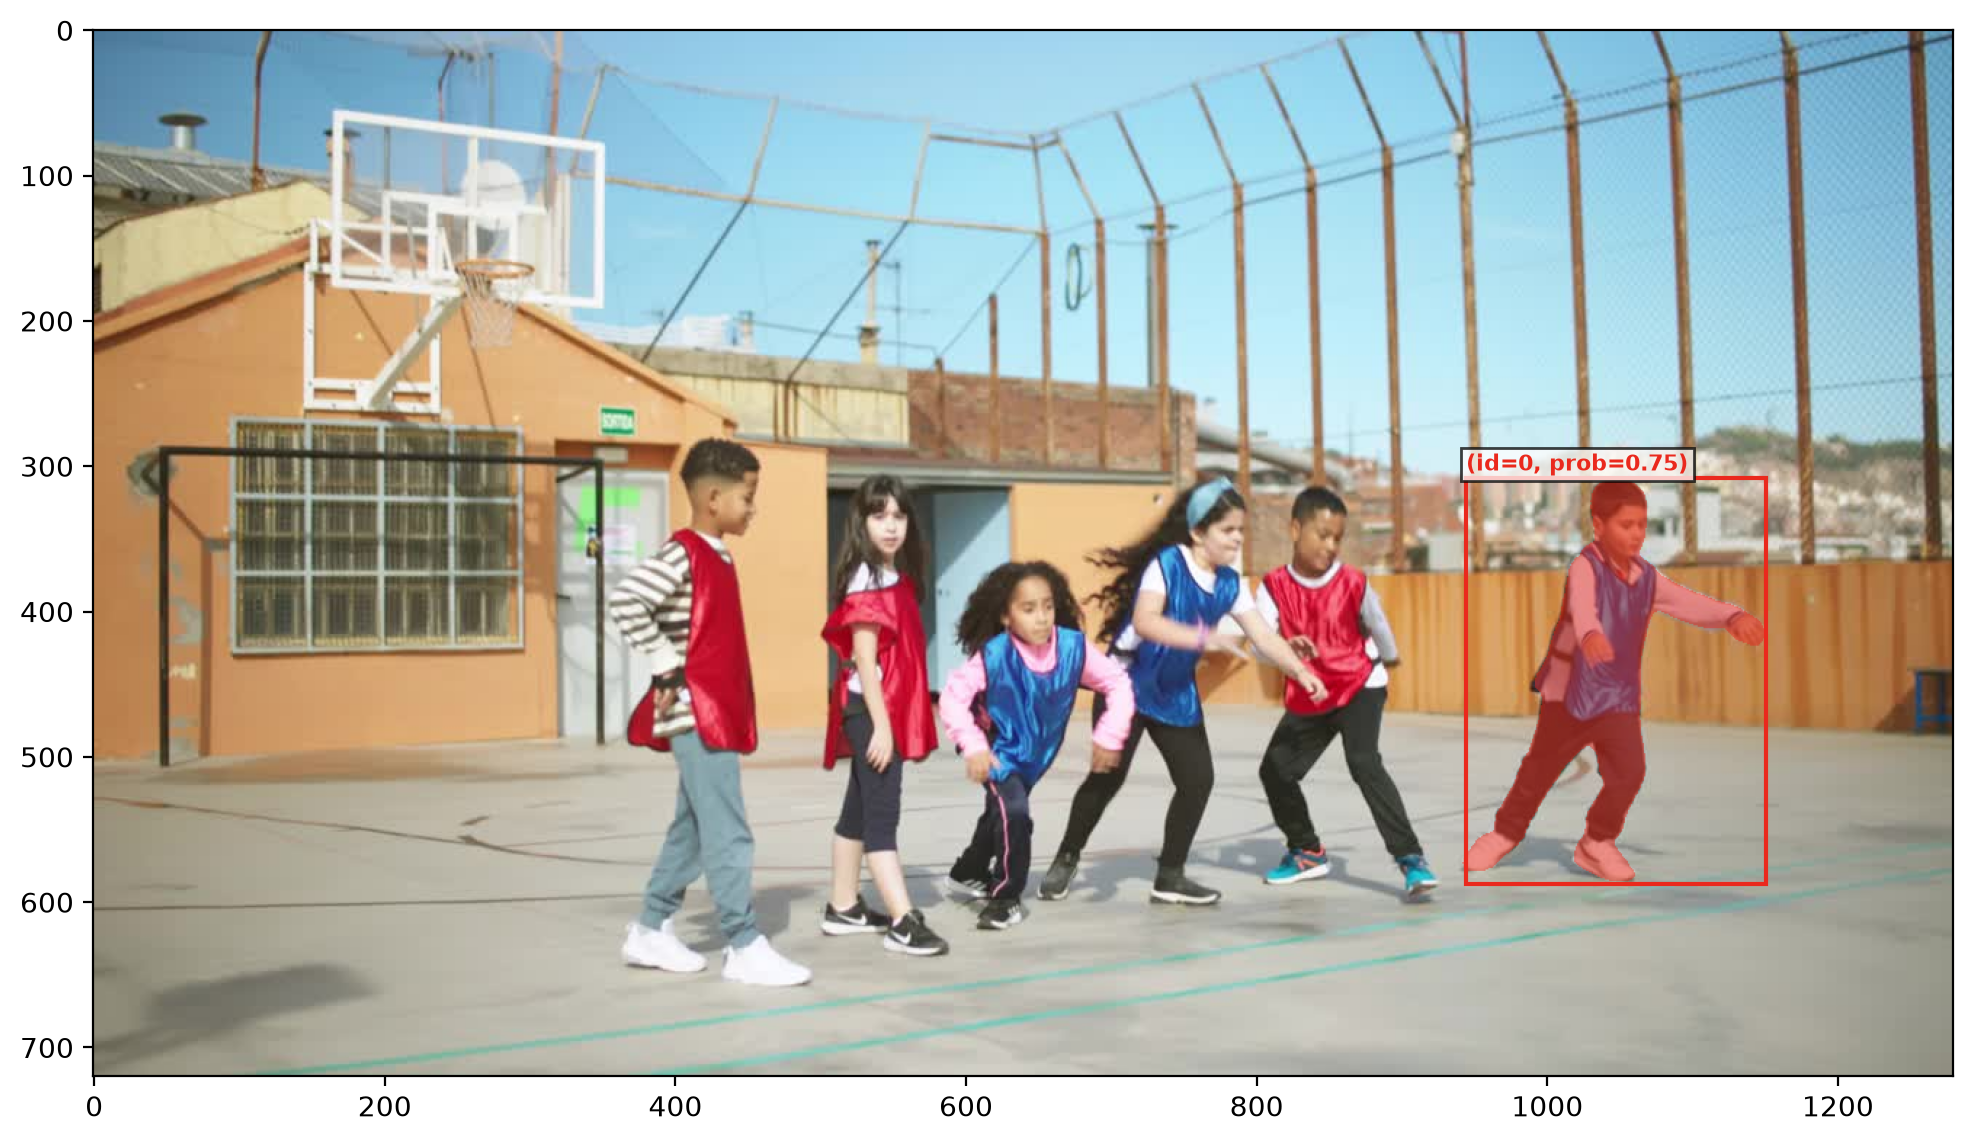
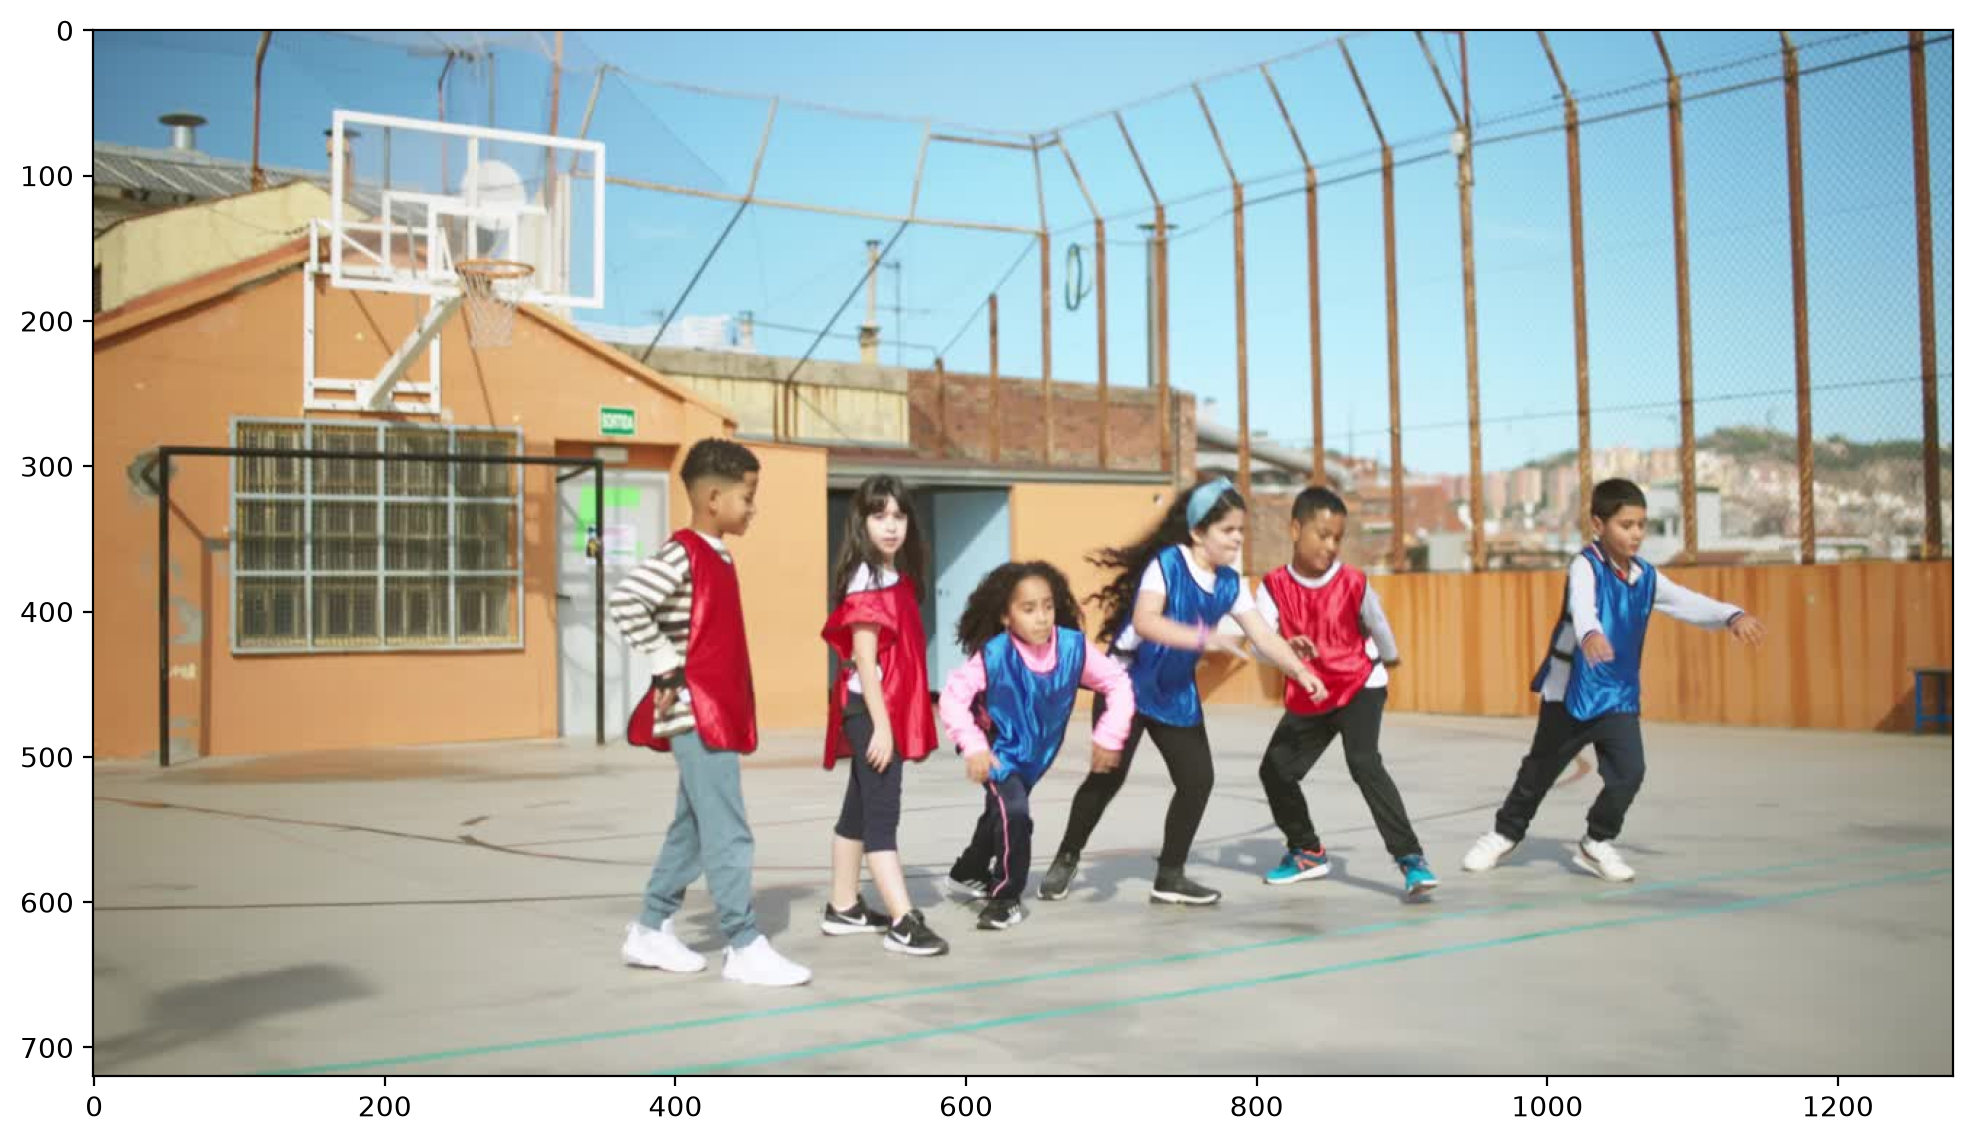
new_loss_type for test

Changed region(s): [[0.742, 0.3675, 0.8966, 0.7962]]

diff --git a/KD/KD_Loss.py b/KD/KD_Loss.py
@@ -1,3 +1,4 @@
+import sys
 from typing import List, Dict, Optional, Any, Sequence
 from dataclasses import dataclass
 import torch
@@ -132,50 +133,6 @@ def mask_distillation_loss(
     total_loss = sum(losses.values())
     return total_loss, {"total_loss": total_loss, **losses}
 
-"""
-逐像素的特征mse损失计算
-"""
-def pixel_wise_mse_features_loss(
-        student_features: Sequence[torch.Tensor],
-        teacher_features: Sequence[torch.Tensor],
-        valid_masks: Optional[Sequence[torch.Tensor]] = None,
-        avg: bool = True,
-) -> torch.Tensor:
-    """Compute MSE on valid feature cells and give every image equal weight."""
-    if len(student_features) != len(teacher_features):
-        raise ValueError(
-            "Student and teacher feature lists must have the same number of layers."
-        )
-
-    if valid_masks is not None and len(valid_masks) != len(student_features):
-        raise ValueError("valid_masks must match the number of feature layers.")
-    layer_losses = []
-    for index, (student_feature, teacher_feature) in enumerate(
-            zip(student_features, teacher_features)
-    ):
-        if student_feature.shape != teacher_feature.shape:
-            raise ValueError(
-                f"student feature {tuple(student_feature.shape)} does not match "
-                f"teacher feature {tuple(teacher_feature.shape)}."
-            )
-
-        per_pixel_mse = (student_feature.float() - teacher_feature.float()).square()
-        per_pixel_mse = per_pixel_mse.mean(dim=1)
-        valid_mask = None if valid_masks is None else valid_masks[index]
-        if valid_mask is None:
-            layer_losses.append(per_pixel_mse.mean())
-            continue
-
-        valid_mask = valid_mask[:, 0].to(
-            device=per_pixel_mse.device, dtype=per_pixel_mse.dtype
-        )
-        per_image_loss = (per_pixel_mse * valid_mask).flatten(1).sum(dim=1)
-        per_image_loss = per_image_loss / valid_mask.flatten(1).sum(dim=1).clamp_min(1)
-        layer_losses.append(per_image_loss.mean())
-
-    total_loss = torch.stack(layer_losses).sum()
-    return total_loss / len(layer_losses) if avg else total_loss
-
 def student_and_teacher_features_loss(
         student_features: List,
         teacher_features: List,
@@ -192,26 +149,37 @@ def student_and_teacher_features_loss(
     vaild_masks: mask用来表示哪一些部分包含了图像的padding
     """
     if len(student_features) != len(teacher_features):
-        assert f'student features length {len(student_features)} is different from teacher features length {len(teacher_features)} '
+        raise ValueError(
+            f"student features length {len(student_features)} is different from "
+            f"teacher features length {len(teacher_features)}"
+        )
 
     if valid_masks is not None and len(valid_masks) != len(student_features):
         raise ValueError("valid_masks must match the number of feature layers.")
-
-    if loss_type == 'mse':
-        return pixel_wise_mse_features_loss(
-            student_features,
-            teacher_features,
-            valid_masks=valid_masks,
-            avg=avg,
-        )
 
     losses = 0
 
     for i in range(len(student_features)):
         student_feature = student_features[i]
         teacher_feature = teacher_features[i]
-        if student_feature.shape != teacher_feature.shape:
-            assert f'student_feature {student_feature.shape} is different from teacher_feature {teacher_feature.shape} '
+        w,h = student_feature.shape[-2:]
+        if loss_type == 'mse':
+            compatible_correlation_shapes = (
+                student_feature.ndim == teacher_feature.ndim == 4
+                and student_feature.shape[0] == teacher_feature.shape[0]
+                and student_feature.shape[-2:] == teacher_feature.shape[-2:]
+            )
+            if not compatible_correlation_shapes:
+                raise ValueError(
+                    "Correlation loss requires student and teacher features "
+                    "with matching [B, H, W] dimensions, got "
+                    f"{student_feature.shape} and {teacher_feature.shape}."
+                )
+        elif student_feature.shape != teacher_feature.shape:
+            raise ValueError(
+                f"student_feature {student_feature.shape} is different from "
+                f"teacher_feature {teacher_feature.shape}"
+            )
 
         valid_mask = None if valid_masks is None else valid_masks[i]
         if valid_mask is not None:
@@ -223,46 +191,69 @@ def student_and_teacher_features_loss(
                     f"valid mask shape {tuple(valid_mask.shape)} does not match "
                     f"feature shape {tuple(student_feature.shape)}."
                 )
-            if loss_type == 'cosine':
-                per_pixel_loss = 1.0 - F.cosine_similarity(
-                    student_feature, teacher_feature, dim=1
-                )
-            elif loss_type == 'l1':
-                per_pixel_loss = F.l1_loss(
-                    student_feature, teacher_feature, reduction='none'
-                ).mean(dim=1)
-            elif loss_type == 'l2':
-                per_pixel_loss = F.mse_loss(
-                    student_feature, teacher_feature, reduction='none'
-                ).mean(dim=1)
-            elif loss_type == 'smooth_l1':
-                per_pixel_loss = F.smooth_l1_loss(
-                    student_feature, teacher_feature, reduction='none'
-                ).mean(dim=1)
-            else:
-                raise ValueError(f'{loss_type} is invalid loss type')
+
+        if loss_type == 'mse':
+            if w > 100 or h > 100:
+                continue
+            student_tokens = F.normalize(
+                student_feature.float(), p=2, dim=1
+            ).flatten(-2, -1)
+            teacher_tokens = F.normalize(
+                teacher_feature.float(), p=2, dim=1
+            ).flatten(-2, -1)
+
+            if valid_mask is None:
+                student_corr = student_tokens.transpose(-2, -1) @ student_tokens
+                teacher_corr = teacher_tokens.transpose(-2, -1) @ teacher_tokens
+                losses += F.mse_loss(student_corr, teacher_corr)
+                continue
+
+            valid_tokens = valid_mask[:, 0].reshape(student_feature.shape[0], -1) > 0.5
+            per_image_losses = []
+            for batch_index in range(student_feature.shape[0]):
+                token_mask = valid_tokens[batch_index]
+                if not torch.any(token_mask):
+                    per_image_losses.append(student_feature[batch_index].sum() * 0.0)
+                    continue
+                student_valid_tokens = student_tokens[batch_index, :, token_mask]
+                teacher_valid_tokens = teacher_tokens[batch_index, :, token_mask]
+                student_corr = student_valid_tokens.transpose(0, 1) @ student_valid_tokens
+                teacher_corr = teacher_valid_tokens.transpose(0, 1) @ teacher_valid_tokens
+                per_image_losses.append(F.mse_loss(student_corr, teacher_corr))
+            losses += torch.stack(per_image_losses).mean()
+            continue
+
+        # Keep the channel dimension reduction independent from the valid-area
+        # reduction, so every loss ignores the same padded feature cells.
+        if loss_type == 'cosine':
+            per_pixel_loss = 1.0 - F.cosine_similarity(
+                student_feature, teacher_feature, dim=1
+            )
+        elif loss_type == 'l1':
+            per_pixel_loss = F.l1_loss(
+                student_feature, teacher_feature, reduction='none'
+            ).mean(dim=1)
+        elif loss_type == 'l2':
+            per_pixel_loss = F.mse_loss(
+                student_feature, teacher_feature, reduction='none'
+            ).mean(dim=1)
+        elif loss_type == 'smooth_l1':
+            per_pixel_loss = F.smooth_l1_loss(
+                student_feature, teacher_feature, reduction='none'
+            ).mean(dim=1)
+        else:
+            raise ValueError(f'{loss_type} is invalid loss type')
+
+        if valid_mask is not None:
             valid_mask = valid_mask[:, 0].to(
                 device=per_pixel_loss.device, dtype=per_pixel_loss.dtype
             )
-            losses += (
-                (per_pixel_loss * valid_mask).sum()
-                / valid_mask.sum().clamp_min(1)
-            )
+            per_image_loss = (per_pixel_loss * valid_mask).flatten(1).sum(dim=1)
+            per_image_loss = per_image_loss / valid_mask.flatten(1).sum(dim=1).clamp_min(1)
+            losses += per_image_loss.mean()
             continue
 
-        loss = -1
-        if loss_type == 'cosine':
-            loss = 1.0 - F.cosine_similarity(student_feature, teacher_feature, dim=1).mean() #dim = 1 -> [B,C,H,W] 中的C
-        if loss_type == 'l1':
-            loss = F.l1_loss(student_feature, teacher_feature)
-        if loss_type == 'l2':
-            loss = F.mse_loss(student_feature, teacher_feature)
-        if loss_type == 'smooth_l1':
-            loss = F.smooth_l1_loss(student_feature, teacher_feature)
-        if loss == -1:
-            assert f'{loss_type} is invalid loss type'
-
-        losses += loss
+        losses += per_pixel_loss.mean()
 
     if avg:
         return losses / len(student_features)

diff --git a/KD/distill_model.py b/KD/distill_model.py
@@ -121,11 +121,6 @@ class _BaseDistill(nn.Module):
         #build adapter
         adapter_cfg = self.cfg.get("Adapter")
         student_feature_layers = self.Student.num_feature_layers
-        teacher_feature_layers = {
-            "SAM3": self.Sam3.num_feature_layers,
-            "DINO-V2": self.Dino_v2.num_feature_layers if self.Dino_v2 else None,
-            "CLIP": self.CLIP.num_feature_layers if self.CLIP else None,
-        }
 
         self.student_channels: List[int] = expand_per_layer_config(
             adapter_cfg.get("student_channel"), student_feature_layers, "student_channel"
@@ -229,7 +224,6 @@ class _BaseDistill(nn.Module):
         sam3_teacher_necks = detach_teacher_tensors(sam3_necks)
 
         #Align student model features with teacher model features
-        student_to_sam3_features = self.sam3_adapter(student_features_float,sam3_teacher_features)
         if self.Dino_v2:
             student_to_dino_v2_features = self.Dino_v2_adapter(student_features_float,dino_features)
         if self.CLIP:
@@ -252,9 +246,6 @@ class _BaseDistill(nn.Module):
         valid_boxes = getattr(batch, "kd_valid_boxes", None)
         if not bool(loss_cfg.get("mask_sam3_padding", True)):
             valid_boxes = None
-        sam3_feature_valid_masks = build_feature_valid_masks(
-            valid_boxes, sam3_teacher_features
-        )
         sam3_neck_valid_masks = build_feature_valid_masks(
             valid_boxes, sam3_teacher_necks
         )
@@ -268,14 +259,6 @@ class _BaseDistill(nn.Module):
             if self.CLIP:
                 student_to_clip_cls_tokens = self.CLIP_cls_adapter(student_cls_tokens, clip_cls_tokens)
 
-        sam3_loss = features_total_loss(
-            student_features=student_to_sam3_features,
-            teacher_features=sam3_teacher_features,
-            losses_type=losses_type,
-            cfg=self.cfg,
-            avg=True,
-            valid_masks=sam3_feature_valid_masks,
-        )
         if self.Dino_v2:
             dino_v2_loss = features_total_loss(
                 student_features=student_to_dino_v2_features,
@@ -328,13 +311,15 @@ class _BaseDistill(nn.Module):
             "clip": float(loss_cfg.get("clip_features_weight", 0.15)) if self.CLIP else 0,
         }
         feature_weight_sum = sum(teacher_feature_weights.values())
-        # feature_loss = torch.zeros((), device=self.device)
-        feature_loss = sam3_loss["total_loss"] * teacher_feature_weights["sam3"]
+        feature_loss = torch.zeros((), device=self.device)
         if self.Dino_v2:
             feature_loss += dino_v2_loss["total_loss"] * teacher_feature_weights["dino_v2"]
         if self.CLIP:
             feature_loss += clip_loss["total_loss"] * teacher_feature_weights["clip"]
-        feature_loss = feature_loss / feature_weight_sum
+        if feature_loss == 0.0:
+            feature_loss = torch.zeros((), device=self.device)
+        else:
+            feature_loss = feature_loss / feature_weight_sum
         total_loss = (
             feature_loss * feature_loss_weight
             + neck_loss["total_loss"] * necks_loss_weight
@@ -346,8 +331,6 @@ class _BaseDistill(nn.Module):
             "avg_feature_loss": feature_loss,
             "neck_loss": neck_loss["total_loss"],
             "cls_token_loss": cls_tokens_loss,
-            "sam3_features_loss": sam3_loss["total_loss"],
-            "sam3_mse_loss": sam3_loss.get("mse", torch.zeros((), device=self.device)),
             "neck_mse_loss": neck_loss.get("mse", torch.zeros((), device=self.device)),
         }
         if self.Dino_v2:

diff --git a/KD/main.py b/KD/main.py
@@ -2,11 +2,12 @@ import argparse
 import sys
 from pathlib import Path
 from typing import Any, Dict
-
+from torchvision.utils import save_image
 import torch
 import torch.distributed as dist
 import yaml
 from torch.nn.parallel import DistributedDataParallel
+from torchvision.utils import save_image, draw_bounding_boxes
 
 PROJECT_ROOT = Path(__file__).resolve().parents[1]
 if str(PROJECT_ROOT) not in sys.path:
@@ -48,6 +49,58 @@ def load_config(path: str) -> Dict[str, Any]:
 #创建蒸馏模型
 def build_distiller(cfg: Dict[str, Any], device: torch.device):
     return Distill(cfg, device)
+
+def save_debug_batch(
+    batch,
+    output_dir: Path,
+    max_images: int = 4,
+):
+
+    vis_dir = output_dir / "debug_images"
+    vis_dir.mkdir(parents=True, exist_ok=True)
+
+    # 还原归一化后的模型输入
+    images = batch.img_batch.detach().float().cpu()
+    images = (images * 0.5 + 0.5).clamp(0, 1)
+    images = images[:max_images]
+
+    h, w = batch.img_batch.shape[-2:]
+
+    # 将归一化坐标转换为像素坐标
+    scale = torch.tensor(
+        [w, h, w, h],
+        device=batch.kd_valid_boxes.device,
+        dtype=batch.kd_valid_boxes.dtype,
+    )
+
+    valid_boxes = (
+        batch.kd_valid_boxes.detach() * scale
+    ).round().long().cpu()
+
+    valid_boxes = valid_boxes[:max_images]
+
+    print("valid boxes in pixels:")
+    print(valid_boxes)
+
+    for index, image in enumerate(images):
+        # 转换为 uint8，供 draw_bounding_boxes 使用
+        image_uint8 = (image * 255).round().to(torch.uint8)
+
+        box = valid_boxes[index:index + 1]
+
+        # 画出真实图像区域，黑色 padding 位于红框之外
+        image_with_box = draw_bounding_boxes(
+            image_uint8,
+            boxes=box,
+            labels=["valid region"],
+            colors="red",
+            width=5,
+        )
+
+        save_image(
+            image_with_box.float() / 255.0,
+            str(vis_dir / f"single_input_{index + 1}_with_box.png"),
+        )
 
 if __name__ == "__main__":
     parser = argparse.ArgumentParser(description="Run KD Training")
@@ -140,6 +193,12 @@ if __name__ == "__main__":
         running_batches = 0
         for batch_idx, batch in enumerate(dataloader, start=1):
             batch = move_to_device(batch, raw_model.device, cfg)
+            # print(batch.kd_valid_boxes)
+            # save_debug_batch(
+            #     batch=batch,
+            #     output_dir=output_dir,
+            # )
+            # sys.exit(0)
             optimizer.zero_grad(set_to_none=True)
 
             total_loss, logs = forward_with_amp(model, batch, cfg)
